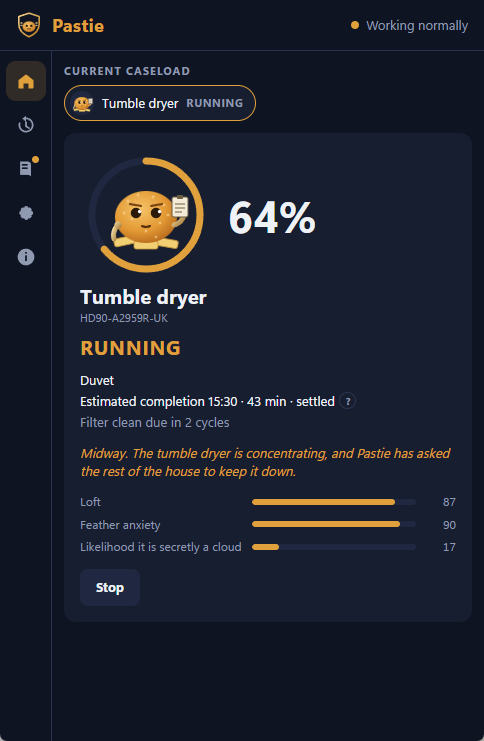
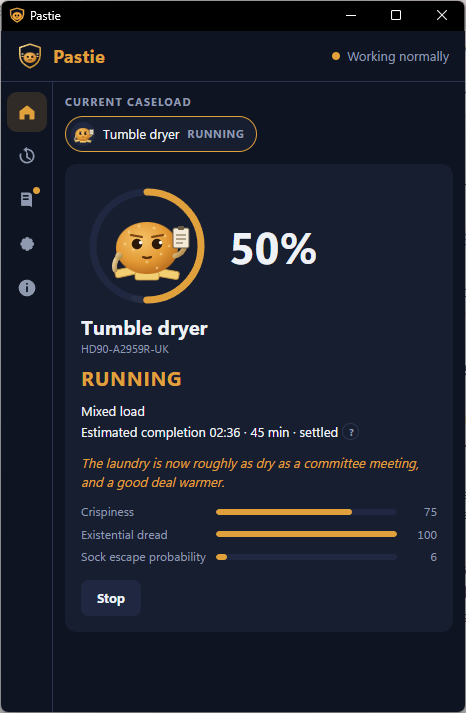
docs: current screenshots, taken from the real window by a script
The README's screenshots predated the window redesign. scripts/screenshots.py
opens the real window against a recorded dryer reading, so they can be retaken
whenever the window changes, and carry no bridge address or account.

Changed region(s): [[0.0, 0.0, 1.0, 1.0], [0.4506, 0.2468, 0.691, 0.3703], [0.1502, 0.8331, 0.3004, 0.864]]

diff --git a/scripts/screenshots.py b/scripts/screenshots.py
@@ -1,0 +1,166 @@
+"""Take the README's screenshots of the real window.
+
+    python scripts/screenshots.py            (Windows; writes assets/screenshots/)
+
+It opens the actual window, with the actual presenter, bridge and service
+handlers, but gives it a stand-in appliance built from the recorded dryer cycle
+in tests/fixtures rather than a live hOn account. That keeps the pictures current
+with the code and keeps anybody's bridge address, speaker names and account out
+of them. The old screenshots had the bridge address painted out by hand, and
+they fell out of date with the redesign.
+
+Run it again whenever the window changes. It takes about fifteen seconds and
+leaves the window on screen while it works; don't cover it.
+"""
+
+from __future__ import annotations
+
+import asyncio
+import ctypes
+import json
+import sys
+import tempfile
+import threading
+import time
+from dataclasses import replace
+from datetime import UTC, datetime
+from pathlib import Path
+from typing import Any
+
+ROOT = Path(__file__).resolve().parents[1]
+sys.path.insert(0, str(ROOT / "src"))
+
+from PIL import ImageGrab  # noqa: E402
+
+from pastie.app.client import ServiceClient  # noqa: E402
+from pastie.app.memory import WindowMemory  # noqa: E402
+from pastie.app.personality import PersonalityStore  # noqa: E402
+from pastie.app.presenter import Presenter  # noqa: E402
+from pastie.app.webview import ICON, Bridge, _claim_taskbar_identity, page_uri  # noqa: E402
+from pastie.connector.profiles import TUMBLE_DRYER, Profile  # noqa: E402
+from pastie.connector.reading import RawReading  # noqa: E402
+from pastie.core.ledger import Ledger  # noqa: E402
+from pastie.core.memory import MemoryStore  # noqa: E402
+from pastie.core.tracker import Tracker  # noqa: E402
+from pastie.messengers import MessengerRunner, SpeechCache, build_registry  # noqa: E402
+from pastie.service import main as service_main  # noqa: E402
+from pastie.service.config import SettingsStore  # noqa: E402
+from pastie.service.protocol import Dispatcher  # noqa: E402
+from pastie.service.secrets import Credentials, SecretStore  # noqa: E402
+from pastie.service.watcher import Watcher  # noqa: E402
+
+OUTPUT = ROOT / "assets" / "screenshots"
+FIXTURE = ROOT / "tests" / "fixtures" / "dryer_cycle.json"
+
+#: Which recorded reading to show: mid-cycle, estimate settled, counting down.
+MID_CYCLE = 2
+
+
+class RecordedDryer:
+    """One recorded reading, stamped with the current time on every read."""
+
+    def __init__(self, reading: RawReading) -> None:
+        self.reading = reading
+
+    async def connect(self) -> None: ...
+
+    async def close(self) -> None: ...
+
+    async def read(self, *, with_statistics: bool = True) -> list[RawReading]:  # noqa: ARG002
+        return [replace(self.reading, observed_at=datetime.now(UTC))]
+
+    def profile(self, appliance_id: str) -> Profile:  # noqa: ARG002
+        return TUMBLE_DRYER
+
+    def subscribe(self, callback: Any) -> None: ...
+
+    async def send(self, appliance_id: str, command: str, arguments: dict[str, Any]) -> None: ...
+
+
+def stand_in_service(folder: Path) -> ServiceClient:
+    data = json.loads(FIXTURE.read_text(encoding="utf-8"))
+    reading = RawReading.from_json(data[MID_CYCLE])
+    registry = build_registry(SpeechCache(folder / "speech"))
+    settings = SettingsStore(folder / "settings.json")
+    service = service_main.Service(
+        watcher=Watcher(
+            connector=RecordedDryer(reading),
+            tracker=Tracker(MemoryStore(), Ledger()),
+            messengers=MessengerRunner(registry.messengers),
+            settings=settings,
+        ),
+        dispatcher=Dispatcher(),
+        secrets=SecretStore(folder / "account.json"),
+        settings=settings,
+    )
+    service_main.register_handlers(service, registry)
+    # An account, so the window skips its first-run screen. Never used.
+    service.secrets.save(Credentials("you@example.com", "not-a-real-password"))
+
+    loop = asyncio.new_event_loop()
+    threading.Thread(target=loop.run_forever, daemon=True).start()
+    asyncio.run_coroutine_threadsafe(service.watcher.refresh(), loop).result()
+
+    def transport(line: str) -> str:
+        return asyncio.run_coroutine_threadsafe(service.dispatcher.handle_line(line), loop).result()
+
+    return ServiceClient(transport)
+
+
+def grab(window: Any, name: str) -> None:
+    """Capture exactly the window's frame, as Windows draws it."""
+    hwnd = int(window.native.Handle.ToInt64())
+    ctypes.windll.user32.SetForegroundWindow(hwnd)
+    time.sleep(1.2)
+    rect = ctypes.wintypes.RECT()
+    # DWMWA_EXTENDED_FRAME_BOUNDS: the visible frame, without the invisible
+    # resize border GetWindowRect includes.
+    ctypes.windll.dwmapi.DwmGetWindowAttribute(hwnd, 9, ctypes.byref(rect), ctypes.sizeof(rect))
+    image = ImageGrab.grab(bbox=(rect.left, rect.top, rect.right, rect.bottom), all_screens=True)
+    image.save(OUTPUT / name, optimize=True)
+    print(f"assets/screenshots/{name}: {image.width}x{image.height}")
+
+
+def main() -> int:
+    if sys.platform != "win32":
+        raise SystemExit("the window is Windows-only")
+    import ctypes.wintypes
+
+    import webview
+
+    ctypes.windll.shcore.SetProcessDpiAwareness(2)  # real pixels, not scaled ones
+    _claim_taskbar_identity()  # Pastie's icon in the title bar, not Python's
+    folder = Path(tempfile.mkdtemp(prefix="pastie-screens-"))
+    memory = WindowMemory(folder / "window.json")
+    memory.state.appearance.level = "departmental"
+    memory.state.appearance.theme = "dark"
+    presenter = Presenter(memory, personalities=PersonalityStore(folder / "personalities"))
+    bridge = Bridge(stand_in_service(folder), presenter)
+    window = webview.create_window(
+        "Pastie",
+        url=page_uri(),
+        js_api=bridge,
+        width=480,
+        height=720,
+        background_color="#0f1422",
+    )
+    bridge._window = window  # noqa: SLF001 - as webview.run does
+
+    def shoot() -> None:
+        time.sleep(4)  # the page loads and draws its first status
+        grab(window, "appliance.png")
+        window.evaluate_js("document.querySelector('.rail-btn[data-view=settings]').click()")
+        time.sleep(2)
+        # Past the account form, to what Pastie can poke.
+        window.evaluate_js("document.getElementById('messenger-cards').scrollIntoView()")
+        time.sleep(1)
+        grab(window, "settings.png")
+        window.destroy()
+
+    OUTPUT.mkdir(parents=True, exist_ok=True)
+    webview.start(shoot, http_server=False, private_mode=True, icon=str(ICON))
+    return 0
+
+
+if __name__ == "__main__":
+    raise SystemExit(main())

diff --git a/CLAUDE.md b/CLAUDE.md
@@ -39,8 +39,10 @@ claiming anything works.
   frozen. `.github/workflows/release.yml` builds zip + Inno Setup installer + SHA256SUMS on a `v*`
   tag. The tag must equal `pastie.__version__`, and the release notes are that version's CHANGELOG
   section (`scripts/release_notes.py`).
-- `scripts/demo_gif.py` regenerates `assets/demo.gif` from real demo output. Rerun it when demo
-  wording changes.
+- `scripts/demo_gif.py` regenerates `assets/demo.gif` from real demo output, and
+  `scripts/screenshots.py` retakes `assets/screenshots/` from the real window against a recorded
+  dryer reading (no live account, so nothing personal in the picture). Rerun them when the demo
+  wording or the window changes.
 - `pastie demo [cycle|gap|tank|noise|ignored|unverified|list|all]` replays recorded readings through the real
   connector, tracker and command tracker. Each scenario's claims are pinned in `tests/test_demo.py`,
   so changing behaviour means updating the demo narration too.

diff --git a/CHANGELOG.md b/CHANGELOG.md
@@ -41,6 +41,10 @@ what should happen.
   through trusted publishing (no stored token), and only after the Windows build
   has passed. The README's images and links are absolute, so they display on
   PyPI too.
+- **Current screenshots**, taken by `scripts/screenshots.py`. It opens the real
+  window against a recorded dryer reading instead of a live account, so the
+  pictures stay in step with the window and never show a bridge address or
+  account. The old ones predated the redesign.
 - **docs/COMPATIBILITY.md**: every appliance at one of four levels (Detected,
   Testing, Verified, Community verified), with a no-programming route to move one
   up.
